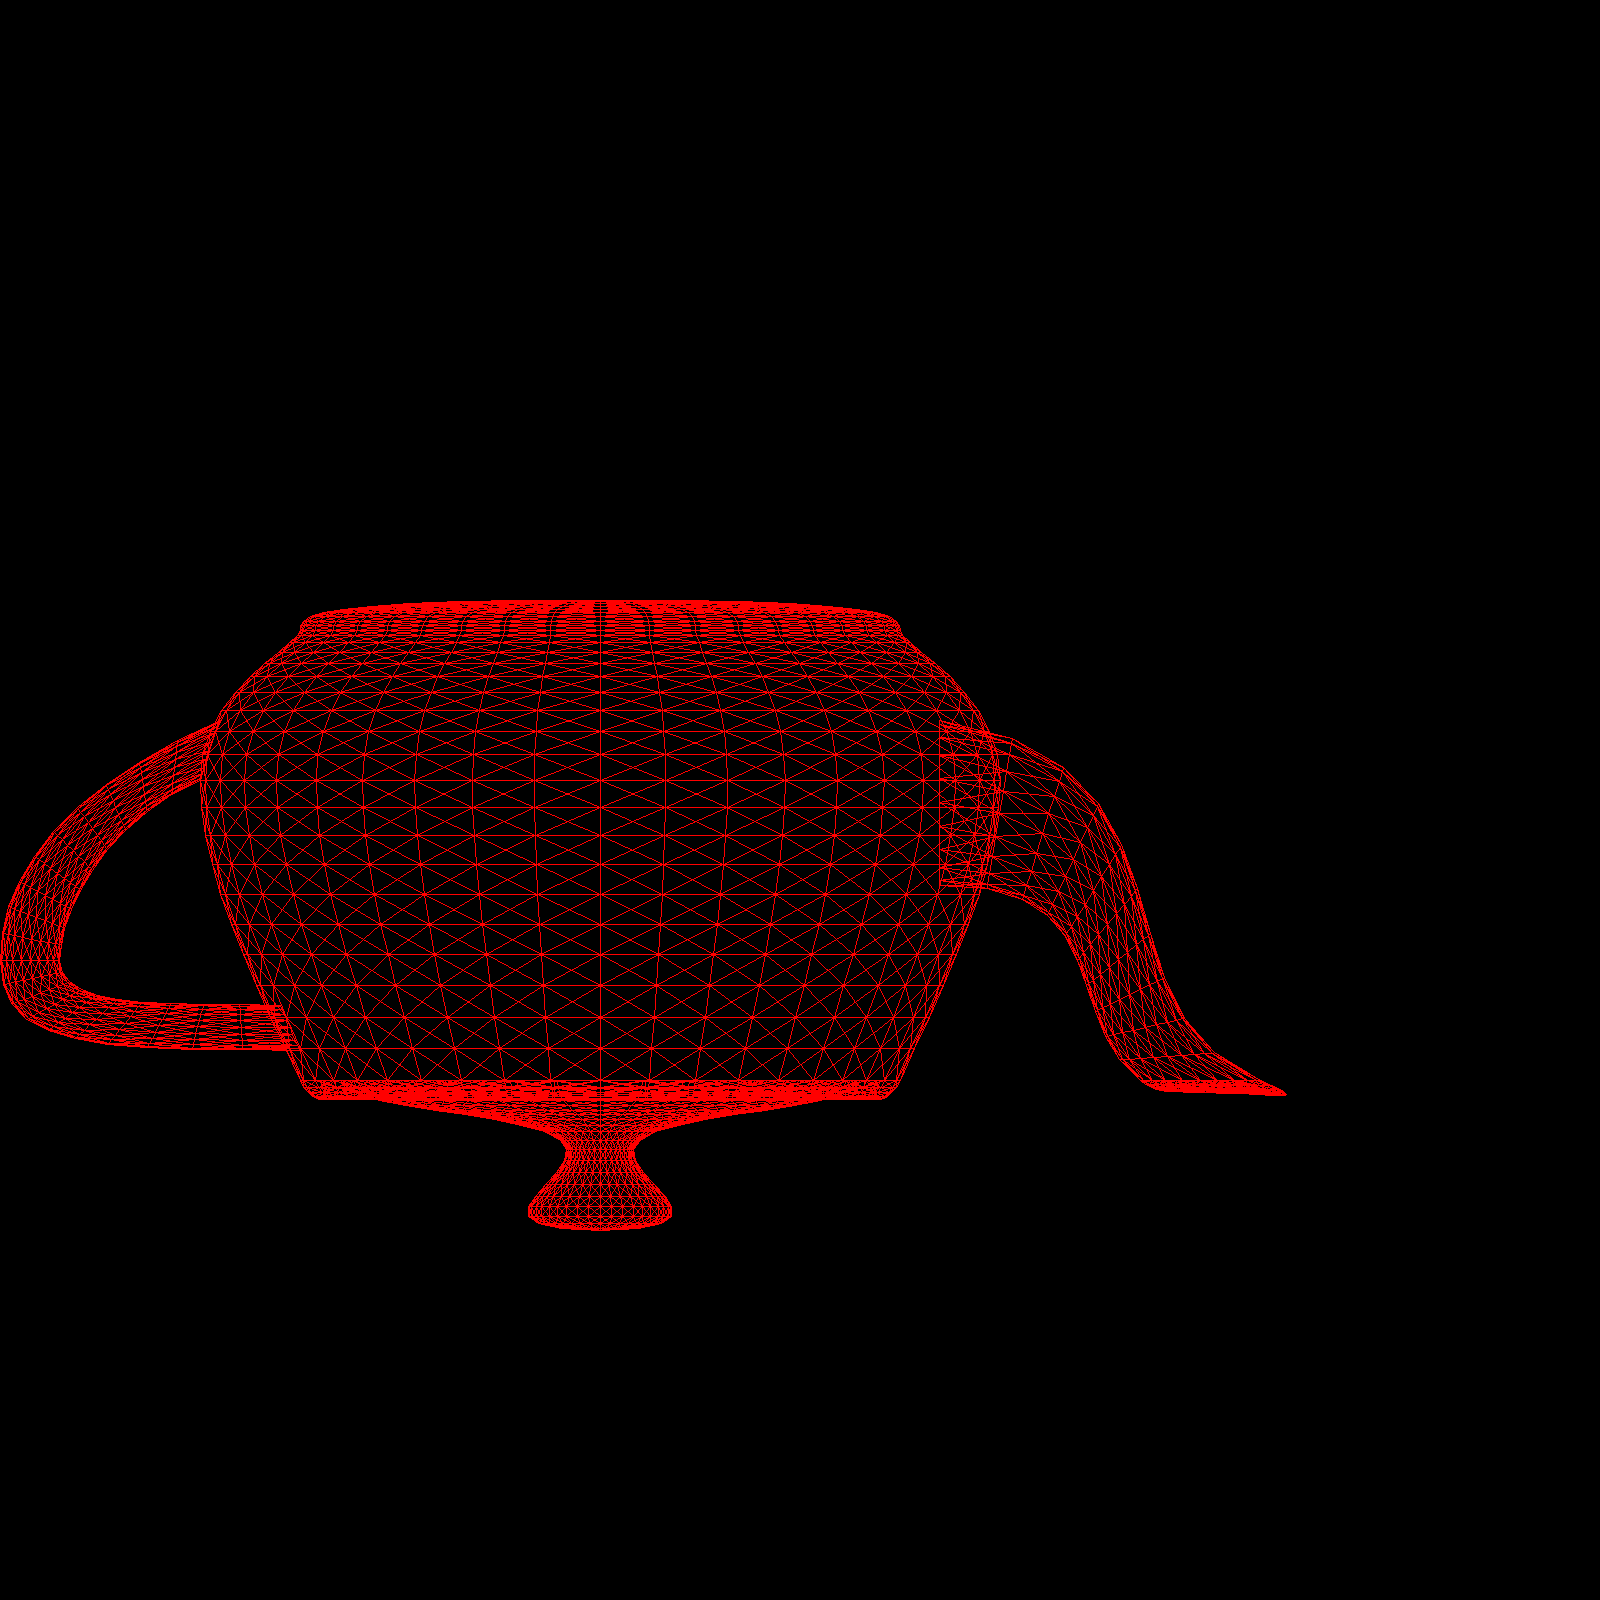
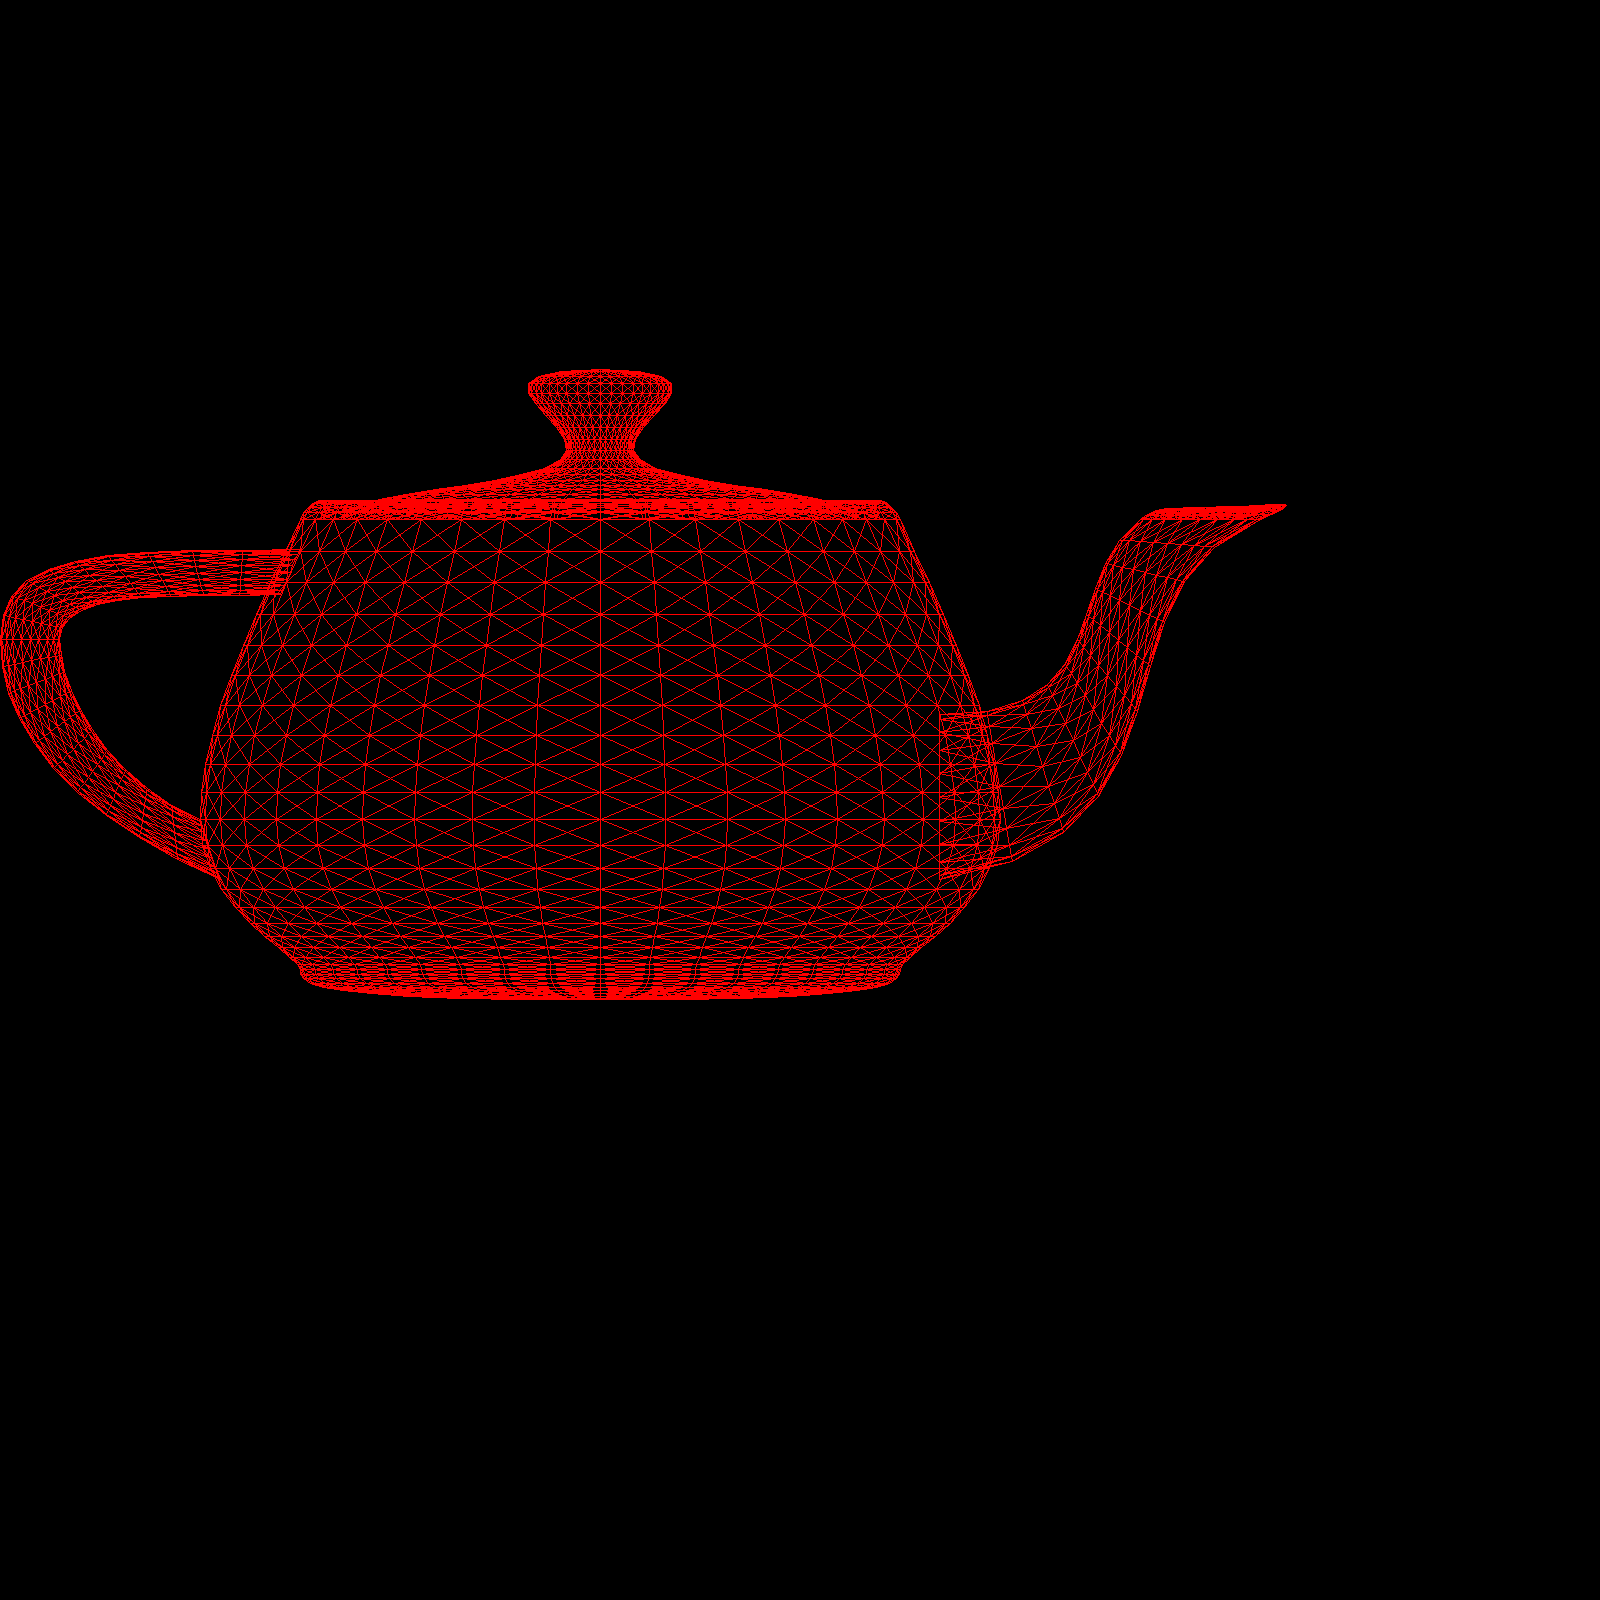
Vertical flip

Changed region(s): [[0.0, 0.2188, 0.8125, 0.7812]]

diff --git a/SoftwareRenderer/src/sr.cpp b/SoftwareRenderer/src/sr.cpp
@@ -7,7 +7,6 @@
 #define STB_IMAGE_WRITE_IMPLEMENTATION
 #include "../lib/stb_image_write.h"
 
-
 Model model;
 
 Color black(0, 0, 0);
@@ -35,6 +34,20 @@ public:
 	void set(int x, int y, Color color) {
 		assert(x >= 0 && y >= 0 && x < width && y < height);
 		memmove(&data[(x + y * width) * bytepp], color.rgba, bytepp);
+	}
+
+	size_t size() {
+		return width * height * bytepp;
+	}
+
+	void flip_vertically() {
+		void *temp = new unsigned char[width * bytepp];
+		for (int y = 0; y < height / 2; y++) {
+			memcpy(temp, &data[y * width * bytepp], width * bytepp);
+			memcpy(&data[y * width * bytepp], &data[(height - 1 - y) * width * bytepp], width * bytepp);
+			memcpy(&data[(height - 1 - y) * width * bytepp], temp, width * bytepp);
+		}
+		delete temp;
 	}
 };
 
@@ -87,7 +100,17 @@ int main(int argc, char **argv) {
 		exit(-1);
 	}
 	
-	SDL_Window *window = SDL_CreateWindow("Software Renderer", SDL_WINDOWPOS_CENTERED, SDL_WINDOWPOS_CENTERED, 1600, 1600, 0); 
+	SDL_Window *window = SDL_CreateWindow("Software Renderer", SDL_WINDOWPOS_CENTERED, SDL_WINDOWPOS_CENTERED, imageWidth, imageHeight, 0); 
+	if (!window) {
+		printf("Couldn't create a window\n %s", SDL_GetError());
+		return 0;
+	}
+
+	SDL_Surface *surface = SDL_GetWindowSurface(window);
+	if (!surface) {
+		printf("Couldn't create a window surface %s", SDL_GetError());
+		return 0;
+	}
 
 	// Parse obj
 	parseOBJ(model, ".\\models\\teapot.obj");
@@ -110,11 +133,17 @@ int main(int argc, char **argv) {
 		drawLine(triVert[2], triVert[0], red, image);
 	}
 
+	SDL_LockSurface(surface);
+	memmove(surface->pixels, image.data, image.size());
+	SDL_UnlockSurface(surface);
 
+	SDL_UpdateWindowSurface(window);
 
+	image.flip_vertically();
 	stbi_write_png("output.png", imageWidth, imageHeight, image.bytepp, image.data, imageWidth * image.bytepp);
+	
+	system("pause");
 
 	SDL_Quit();
-
 	return 0;
 }
